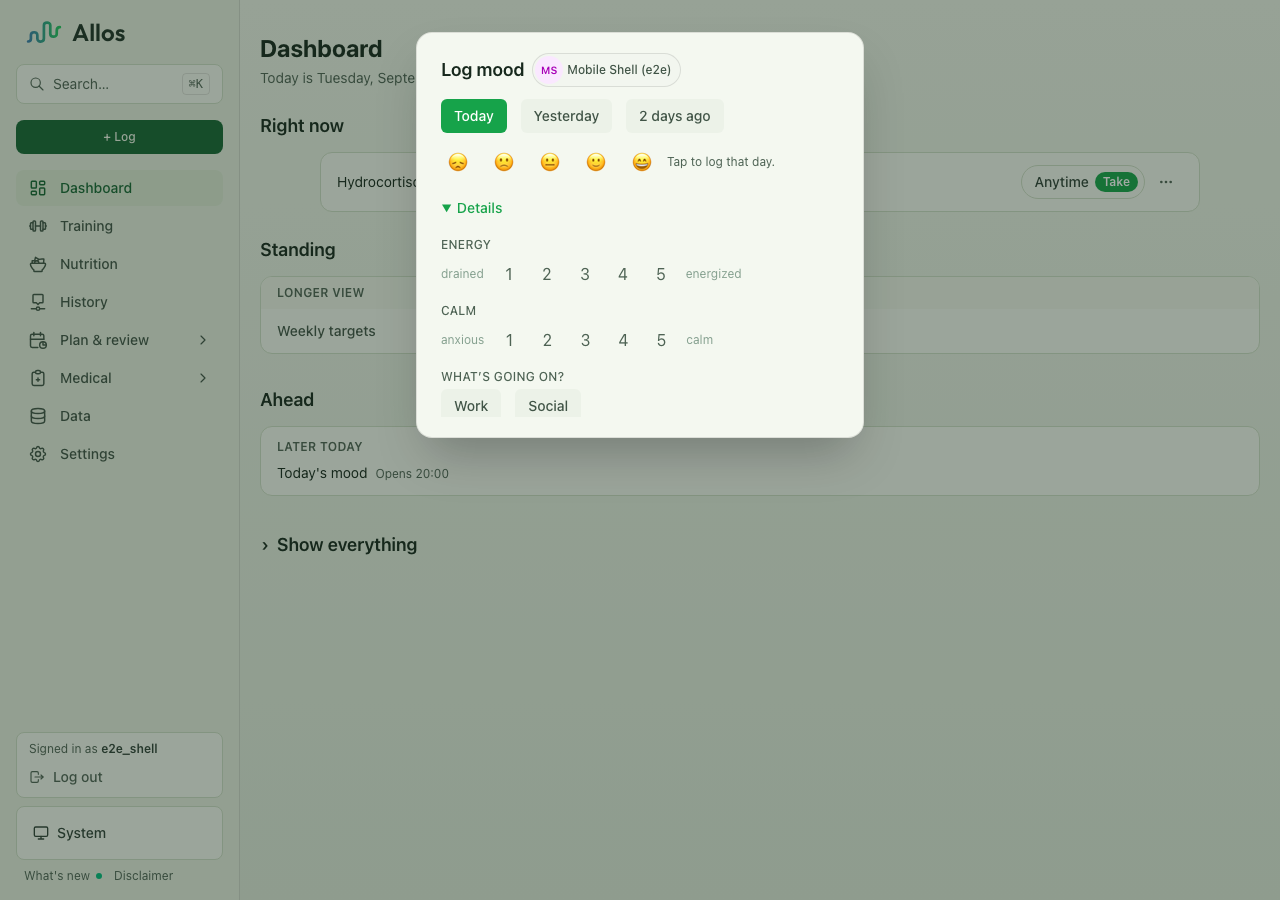
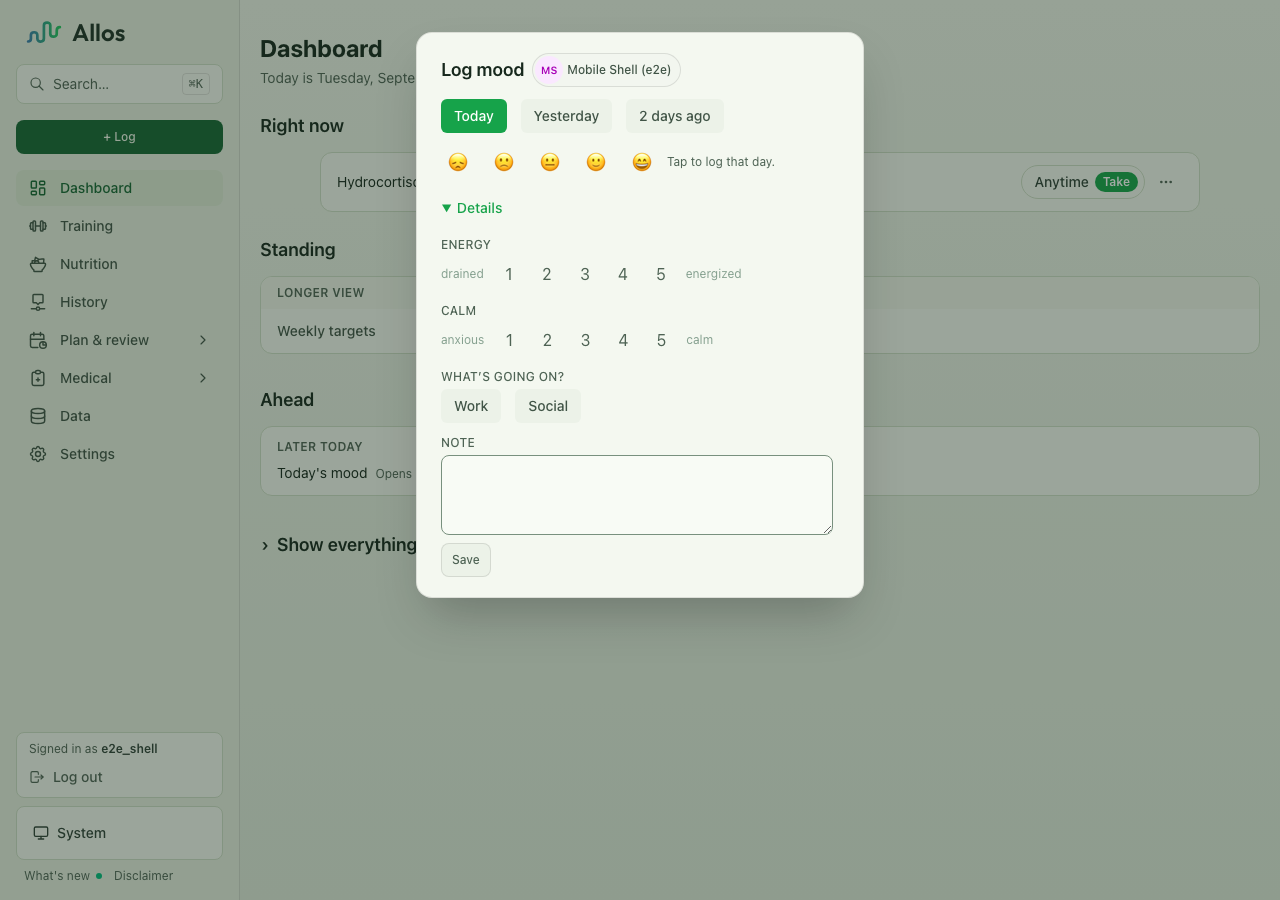
Settle mood comparison evidence

Changed region(s): [[0.3125, 0.4667, 0.6875, 0.6844]]

diff --git a/screenshots/5521/README.md b/screenshots/5521/README.md
@@ -14,5 +14,9 @@ viewports before and after the presentation changes.
 The after capture batch passed for all eight images. A separate browser probe
 measured both split practice controls at 34 px and reached each control
 independently with a touch five pixels beyond its visible block edge, exercising
-the shared 46 px coarse-pointer target. The final full overlay test file and
+the shared 46 px coarse-pointer target. The Mood comparisons wait for the
+animated Details frame to reach the bottom of its content. The supplementary
+`after/mood-1280-bottom-reach.png` shows Note and Save after that measured wait;
+the enabled Save was inside the viewport and all clipping ancestors and was the
+element returned by center hit testing. The final full overlay test file and
 recorded repository gates are tracked separately from this visual evidence.
